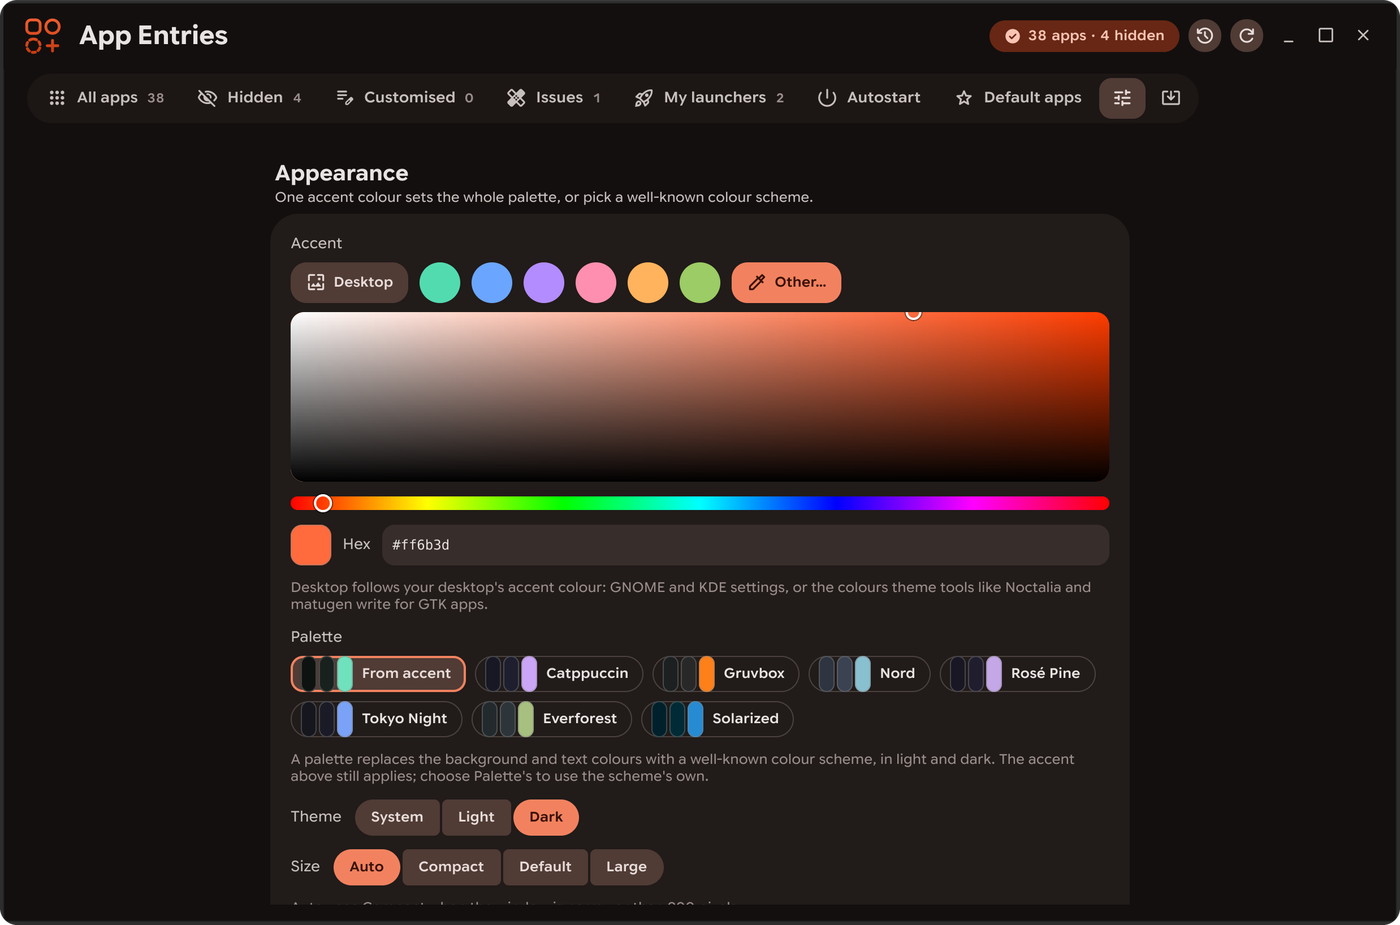
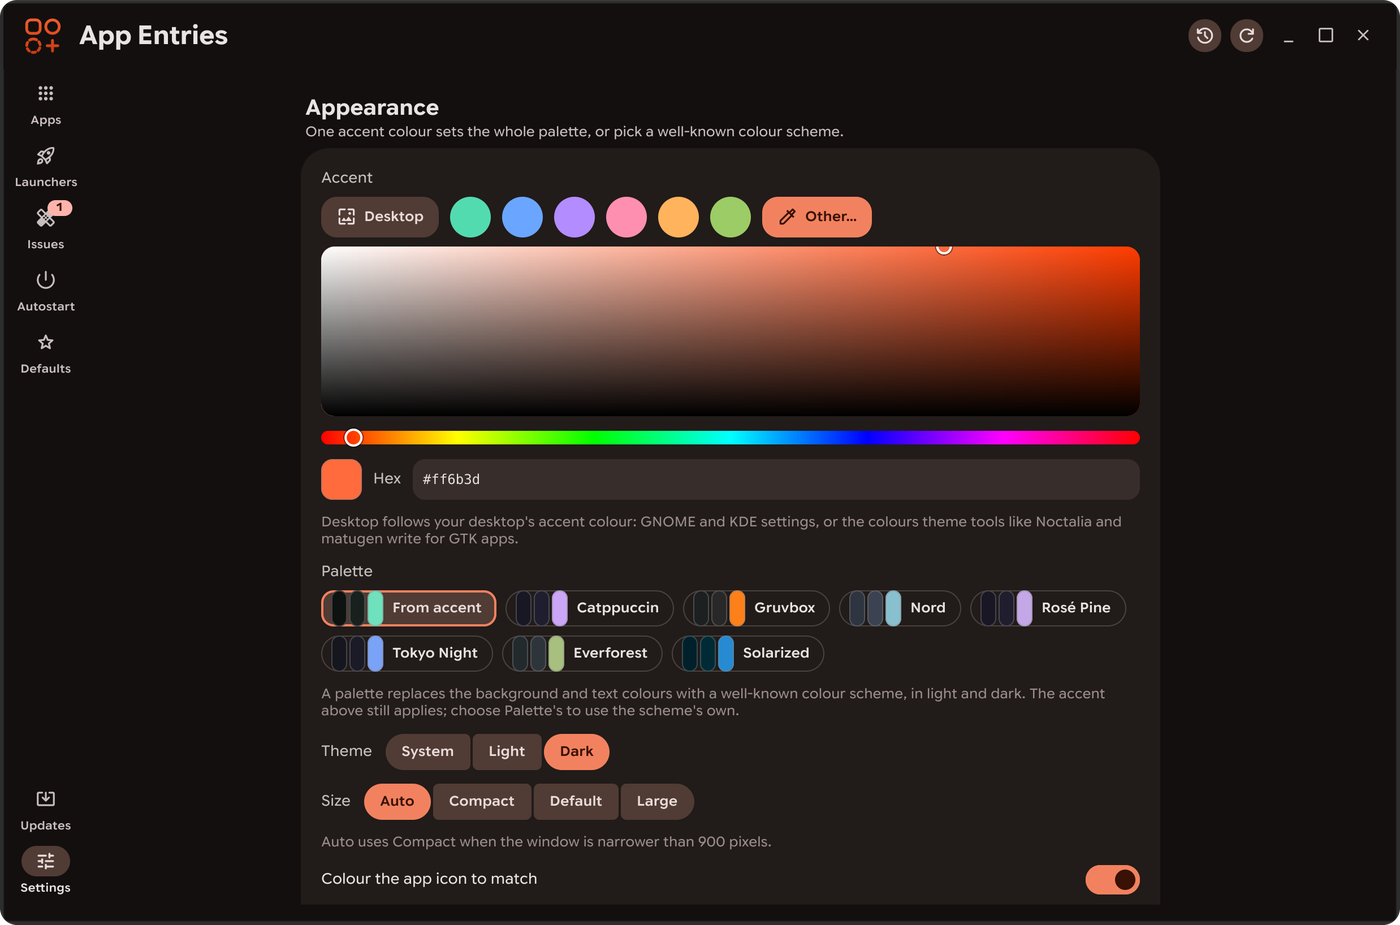
Docs and screenshots for the new layout
Claude-Session: https://claude.ai/code/session_01DRNCbezi7H5oaU6kT7mK9G

diff --git a/README.md b/README.md
@@ -26,7 +26,7 @@
 </p>
 
 <p align="center">
-  <img alt="App Entries in dark mode: a grid of apps, each with a switch to hide it from launcher menus and a badge showing where it came from" src="docs/screenshots/main.png" width="860">
+  <img alt="App Entries in dark mode: a list of apps beside the selected app's page, which shows how it looks in a launcher, a switch to hide it and its settings" src="docs/screenshots/main.png" width="860">
 </p>
 
 ---
@@ -36,15 +36,16 @@
 ## Features
 
 **Apps**
-- Every installed app in one searchable grid: system packages, Flatpak, Snap, AppImage, Steam and your own launchers. Filter by source; badges show where each app comes from and why it's hidden.
-- Hide or show an app with one switch. Hidden apps still open links and files, and stay in "Open With".
+- Every installed app in one searchable list: system packages, Flatpak, Snap, AppImage, Steam and your own launchers. **Shown**, **Hidden** or **All**, so hundreds of hidden apps stay out of the way; a Filter menu narrows it to one source, customised or new apps.
+- Hide or show an app with the eye on its row, Space, or the switch on its page. Hidden apps still open links and files, and stay in "Open With".
+- **Each app has a page** beside the list: how it looks in your launcher, its name, icon and command (edited right there, with Save and Discard), the file types it opens, whether it starts at login, helper apps, the changes made to it with Undo, and Uninstall. Unsaved edits are kept while you look at other apps.
 - **Select several** to hide, show, restore, restyle or uninstall many apps at once.
 - **Edit** any entry (name, icon, command, environment, folders, desktops, quick actions) with a live view of the file. Editing a system app saves your own copy; *Restore original* puts it back.
-- **Open** any app from its card, hidden ones included. Sort A–Z or newest first; apps that appeared since App Entries last looked are marked New.
+- **Open** any app from its page or right-click menu, hidden ones included. Sort A–Z or newest first; apps that appeared since App Entries last looked are marked New.
 - **Issues** finds leftover files, missing programs and duplicates, and explains each with a button to fix it.<br>
-  <a href="docs/screenshots/issues.png"><img alt="The Issues tab listing an entry whose program isn't installed, with a button to hide it" src="docs/screenshots/issues.png" width="400"></a>
+  <a href="docs/screenshots/issues.png"><img alt="Issues listing an entry whose program isn't installed, with a button to hide it" src="docs/screenshots/issues.png" width="400"></a>
 - Apps you edited and then uninstalled some other way are hidden from menus with your edits kept, and the edits apply again if you reinstall. Both are options in Issues, each done once with Undo.
-- When a tab is empty because of the search, the source or the Hidden and Not in menus switches, it says how many apps they leave out, with a button to lift each.
+- When the list is empty because of the search or the filters, it says how many apps they leave out, with a button to lift each. While searching Shown, it also says when hidden apps match.
 - **Uninstall…** for Flatpak, Snap, AppImage, Steam, Distrobox and system packages (pacman, apt, dnf, zypper, rpm-ostree, xbps, apk, eopkg, Portage and Nix). Before anything runs it shows what goes, which other apps and packages need it or go with it, whether it's a default app or starts at login, and the exact command. Data folders and advanced options (like removing what depends on it) are off unless you turn them on, with warnings. Commands that need a password run in your terminal; packages the system or your desktop needs are never offered. History keeps a Reinstall button.
 - **Helper apps…** shortcuts to the apps that set up what App Entries doesn't, opened on that app where they allow it: Flatseal, Warehouse, Gear Lever, ProtonUp-Qt, Protontricks, BoxBuddy, DistroShelf, GNOME Settings' and KDE's app permissions, your software centre and Steam. Missing ones show what they do and the Flathub command, run in your terminal only if you ask.
 
@@ -61,14 +62,14 @@
 
 **More**
 - **Autostart**: turn login programs on and off, or add your own.
-- **Default apps**: choose which app opens links, email, folders, text, PDFs, pictures, videos, music and archives, for a whole kind or each type on its own. **By app** lists every file type one app opens (File types… on its card) and makes it the default for any of them. Uses the standard `mimeapps.list`, and also updates Xfce's and KDE's own browser settings.<br>
-  <a href="docs/screenshots/default-apps.png"><img alt="The Default apps tab: web browser, email, files, text, PDFs, pictures, videos and music, each with the app that opens them" src="docs/screenshots/default-apps.png" width="400"></a>
+- **Default apps**: choose which app opens links, email, folders, text, PDFs, pictures, videos, music and archives, for a whole kind or each type on its own. **By app** lists every file type one app opens (File types… on its page) and makes it the default for any of them. Uses the standard `mimeapps.list`, and also updates Xfce's and KDE's own browser settings.<br>
+  <a href="docs/screenshots/default-apps.png"><img alt="Default apps: web browser, email, files, text, PDFs, pictures, videos and music, each with the app that opens them" src="docs/screenshots/default-apps.png" width="400"></a>
 - **History** of every change, each with Undo, kept between sessions.
 - **Export / Import** your changes to set up another computer.
 - **Updates** from GitHub releases, installed with one button.
 - A **command line** for scripts, and full keyboard and screen reader support.
 - Light and dark themes and a responsive layout. The accent can follow your desktop's (GNOME and KDE settings, or the colours Noctalia, matugen, wallust and other theme tools write for GTK apps), and palettes like Catppuccin, Gruvbox, Nord, Rosé Pine, Tokyo Night, Everforest and Solarized restyle the whole app.<br>
-  <a href="docs/screenshots/settings.png"><img alt="The Settings tab: accent colours with a colour picker, palettes, light or dark, and size" src="docs/screenshots/settings.png" width="400"></a>
+  <a href="docs/screenshots/settings.png"><img alt="Settings: accent colours with a colour picker, palettes, light or dark, and size" src="docs/screenshots/settings.png" width="400"></a>
 
 Nothing happens by itself: every option is explained, nothing is written until you press a button, and every change can be undone. The one exception is hiding edited apps that were uninstalled (and showing them again on reinstall), which is on by default, shows a message with Undo, and can be turned off in Issues. App Entries never changes system files itself; only a package manager you run from it, in your terminal, does.
 
@@ -82,7 +83,7 @@ cd AppEntries
 
 Needs Python 3.9+, GTK 4.6+ and PyGObject. The installer shows the command for your distribution and asks before installing anything missing (`--yes` to skip the question). Use `sudo ./install.sh --system` for `/usr/local`, or `--prefix DIR`.
 
-Updates come from the **Updates** tab. To remove it, run `./uninstall.sh` (same options). Add `--restore-apps` to show the apps you hid and turn login programs back on, and `--purge` to delete settings.
+Updates come from **Updates**, at the bottom of the side rail. To remove it, run `./uninstall.sh` (same options). Add `--restore-apps` to show the apps you hid and turn login programs back on, and `--purge` to delete settings.
 
 ## How it works
 
@@ -110,9 +111,13 @@ Add `--yes` to skip questions in scripts. See `app-entries --help`.
 | `Ctrl+F`, or start typing | Search |
 | `Alt+1` … `Alt+7` | Go to Apps, Launchers, Issues, Autostart, Defaults, Updates or Settings |
 | `Ctrl+N` / `Ctrl+Shift+N` | New launcher / New web app |
-| `Enter` on a card | Hide or show it |
+| `Enter` or a click on an app | Open its page |
+| `Space` on an app | Hide or show it |
+| `Menu` or `Shift+F10` on an app | Its options |
+| `Ctrl+S` | Save the changes on an app's page |
+| `Esc` | Back to the list (narrow windows), or close History |
 | `Ctrl+Z` | Undo the last change |
-| `Ctrl+H` | History |
+| `Ctrl+H` | History, at the side |
 | `Ctrl+R` | Refresh |
 | `Ctrl+,` | Settings |
 

diff --git a/CHANGELOG.md b/CHANGELOG.md
@@ -1,5 +1,14 @@
 # Changelog
 
+## Unreleased
+
+- A new layout. A slim rail on the left goes to Apps, Launchers, Issues, Autostart and Defaults, with Updates and Settings at the bottom.
+- Apps are a compact list. **Shown**, **Hidden** or **All** picks which, Shown by default, so hidden apps stay out of the way; source, customised, new and apps not in menus are in one Filter menu. An eye on each row hides or shows it (always there on hidden apps, on the others when you point at them); Space does the same, and right-click or the Menu key opens its options.
+- Each app has a page beside the list: how it looks in your launcher, the Hidden switch, Open, its name, icon and command, the file types it opens, starting at login, helper apps, the changes made to it with Undo, and Uninstall. In narrow windows the page takes the list's place, with a way back.
+- Editing is on the page: a Save / Discard bar appears once something changes, the launcher preview follows as you type, and unsaved edits are kept (marked with a dot) while you look at other apps. Closing with unsaved edits asks first.
+- New launchers and web apps, and editing them, open in the page; History slides in at the side. The Edit, launcher, web app and History windows are gone.
+- The window works from about 470 px wide, for tiling desktops: search gets its own line, the list never gets wider than 600 px, and the page sits beside it when there's room.
+
 ## 1.0.8 — 2026-11-13
 
 - Text in the app can be selected with the mouse and copied with Ctrl+C or the right-click menu: descriptions, paths, commands, explanations. It stays out of the Tab order, so keyboard use is unchanged.
